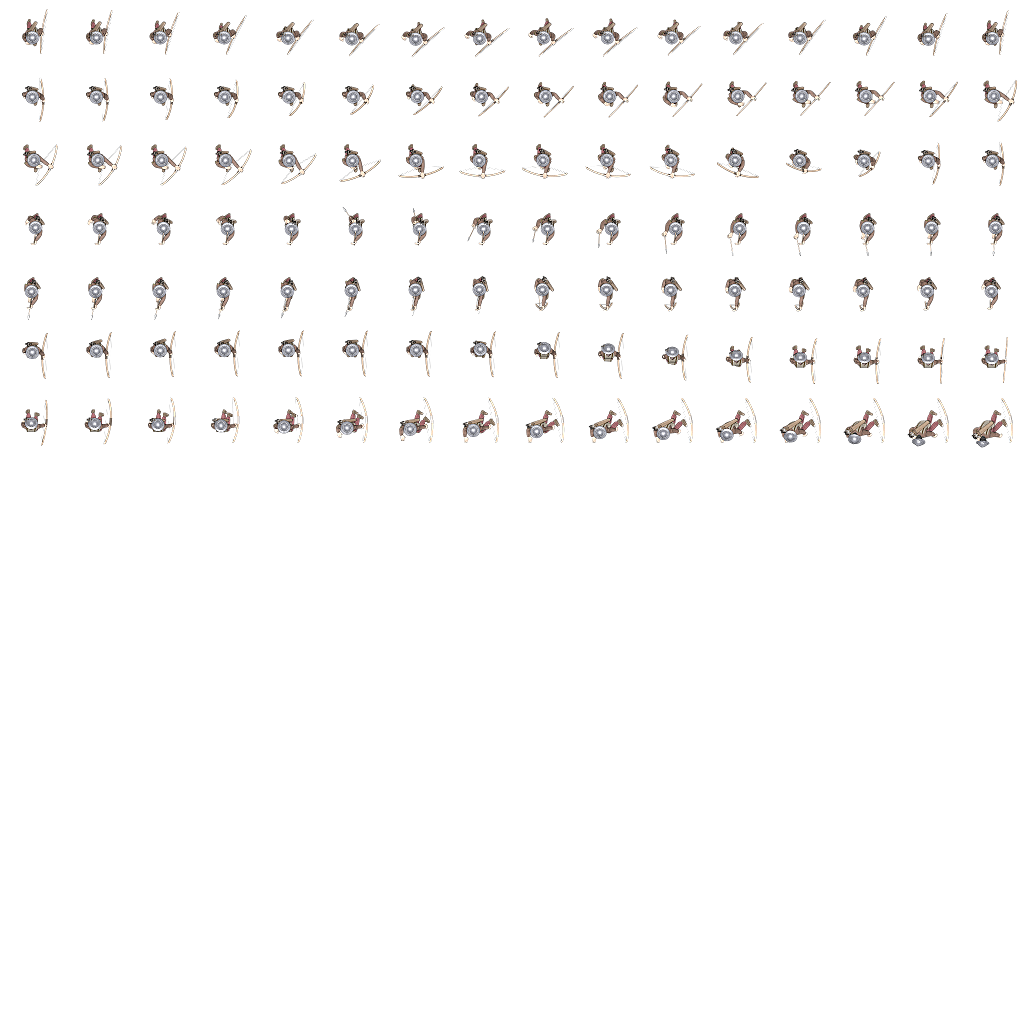
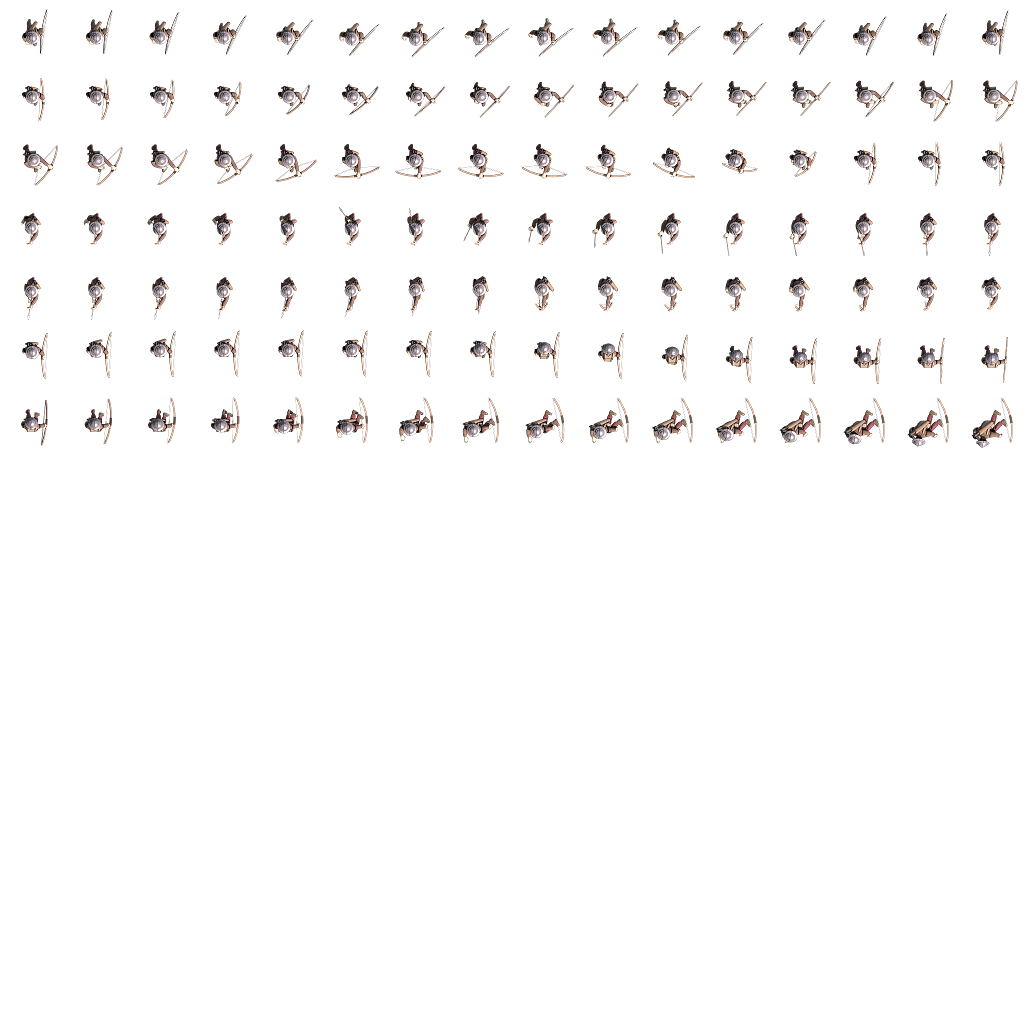
Removing the shadow code

diff --git a/Client/Renderer/src/renderableSoldier.js b/Client/Renderer/src/renderableSoldier.js
@@ -1,7 +1,8 @@
-define(['Core/src/imageCache', 'Core/src/spriteSheet', './effects/transitionEffect'], function (ImageCache, SpriteSheet, TransitionEffect)
+define(['Core/src/imageCache', 'Core/src/spriteSheet', './effects/transitionEffect', 'text!../content/animations.json'], function (ImageCache, SpriteSheet, TransitionEffect, AnimationDefinitions)
 {
     'use strict';
 
+    var animations = JSON.parse(AnimationDefinitions);
     var teamColors = {
         'green': '#3ddb11',
         'red': '#f93b34'
@@ -23,7 +24,7 @@ define(['Core/src/imageCache', 'Core/src/spriteSheet', './effects/transitionEffe
 
     function createSpriteSheet(type)
     {
-        var animationDefinition = window.soldierAnimations[type];
+        var animationDefinition = animations[type];
         var spriteSheet = new SpriteSheet(animationDefinition.spriteSheet, 'Renderer/content/' + animationDefinition.spriteSheet + '.png', {
             tileWidth: animationDefinition.tileWidth,
             tileHeight: animationDefinition.tileHeight
@@ -94,19 +95,13 @@ define(['Core/src/imageCache', 'Core/src/spriteSheet', './effects/transitionEffe
                 context.stroke();
             }
 
-            var tileRect = this.spriteSheet.getCurrentShadowBounds();
-            if (tileRect)
-            {
-                context.drawImage(this.spriteSheet.image.data, tileRect.x, tileRect.y, tileRect.width, tileRect.height, -halfTileSize, -halfTileSize, tileSize, tileSize);
-            }
-
             if (this.unit.direction)
                 context.rotate(this.unit.direction);
 
             this.spriteSheet.updateAnimation(deltaTime);
             context.globalAlpha = this.style.opacity;
 
-            tileRect = this.spriteSheet.getCurrentTileBounds();
+            var tileRect = this.spriteSheet.getCurrentTileBounds();
             if (tileRect)
             {
                 context.drawImage(this.spriteSheet.image.data, tileRect.x, tileRect.y, tileRect.width, tileRect.height, -halfTileSize, -halfTileSize, tileSize, tileSize);

diff --git a/Client/Core/src/spriteSheet.js b/Client/Core/src/spriteSheet.js
@@ -36,14 +36,6 @@ define(['Core/src/eventManager', './imageCache', './utility'], function (EventMa
         return this.currentTileBounds;
     };
 
-    SpriteSheet.prototype.getCurrentShadowBounds = function ()
-    {
-        if (!this.currentShadowBounds && this.currentShadowTile !== null)
-            this.currentShadowBounds = this.getTileBounds(this.currentShadowTile);
-
-        return this.currentShadowBounds;
-    };
-
     SpriteSheet.prototype.getTile = function (x, y)
     {
         if (this.image.isLoaded)
@@ -86,13 +78,6 @@ define(['Core/src/eventManager', './imageCache', './utility'], function (EventMa
         {
             this.currentTile = index;
             this.currentTileBounds = null;
-
-            if (this.currentAnimation && this.currentAnimation.shadows)
-            {
-                var offset = this.currentAnimation.shadows.start - this.currentAnimation.start;
-                this.currentShadowTile = index + offset;
-                this.currentShadowBounds = null;
-            }
         }
     };
 

diff --git a/Client/index.html b/Client/index.html
@@ -1,18 +1,14 @@
 <!DOCTYPE html>
 <html>
-
 <head>
     <title>Coffee Goblins</title>
-    <meta name="viewport" content="width=device-width,initial-scale=1,maximum-scale=1,user-scalable=0" />
+    <meta name="viewport" content="width=device-width,initial-scale=1,maximum-scale=1,user-scalable=0"/>
     <link rel="stylesheet" type="text/css" href="styles.css">
     <script type="text/javascript" src="lib/require.js"></script>
     <script type="text/javascript" src="lib/requireConfigCanvas.js"></script>
-    <script type="text/javascript" src="Renderer/content/animations.js"></script>
     <script type="text/javascript" src="main.js"></script>
 </head>
-
 <body>
     <canvas id='canvas' tabindex='0'></canvas>
 </body>
-
 </html>
